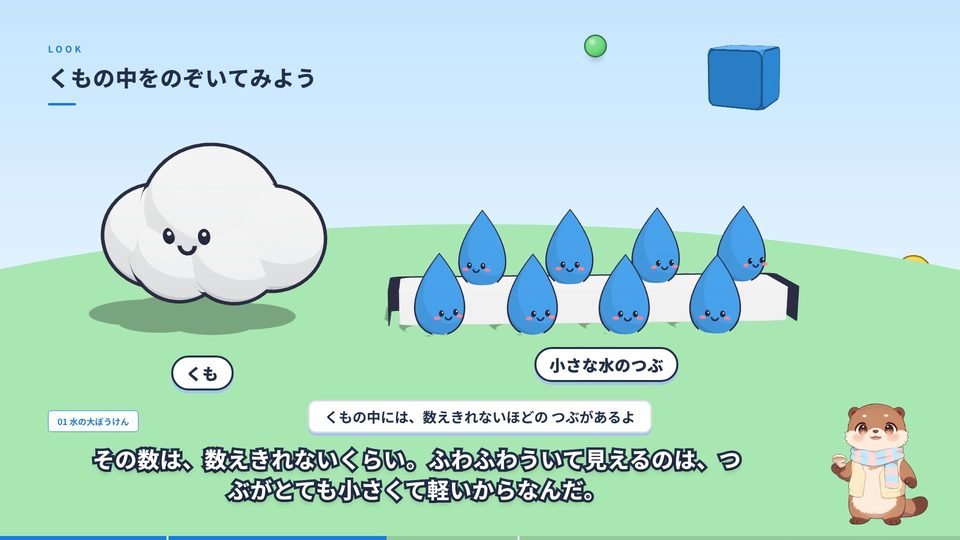
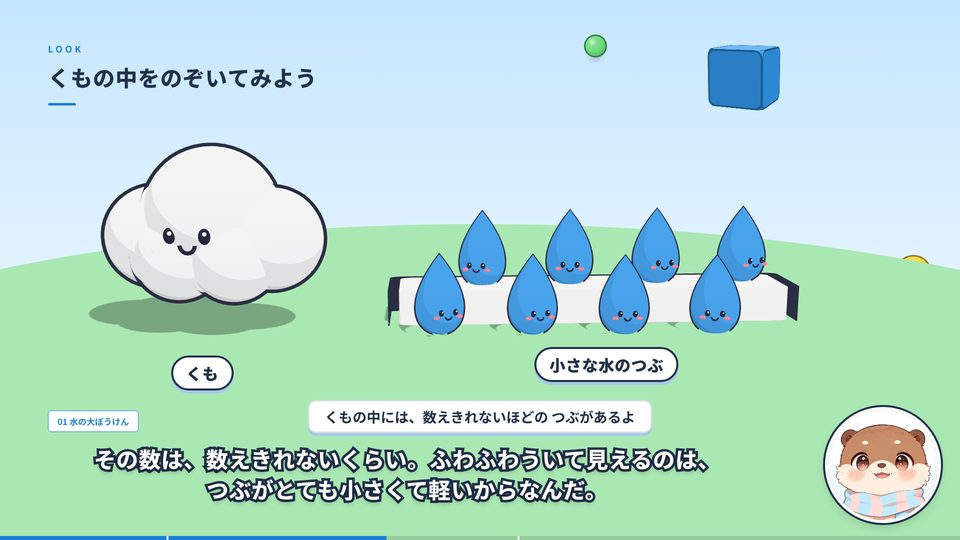
キャラクターを顔だけの丸い枠にし、動くのは口だけにする
- 話すたびに上下に揺れていた動き (音量に合わせた上下動・ゆらぎ・登場時の跳ね上がり) をなくし、
  口の画像の切り替えだけで喋るようにした (冒頭のフェードインのみ)
- 同梱のカワウソは顔だけを丸い枠 (ワイプ) で表示。meta.avatar.framing: "full" で従来の全身、
  face で切り出す位置を調整できる。builtin キャラクターの傾き・まばたきもなくした
- 字幕をよける幅を枠の大きさから計算し、README・手順書と画面例を更新

Claude-Session: https://claude.ai/code/session_018uyttXZdRnE53yjFnEWyZZ

Changed region(s): [[0.0938, 0.8296, 0.7812, 0.9481], [0.8438, 0.7407, 1.0, 0.9778]]

diff --git a/src/components/Avatar.tsx b/src/components/Avatar.tsx
@@ -1,8 +1,7 @@
 import React from 'react';
-import { Img, staticFile, useCurrentFrame, useVideoConfig } from 'remotion';
+import { Img, interpolate, staticFile, useCurrentFrame } from 'remotion';
 import { script, timeline } from '../data';
 import { useTheme } from '../themes';
-import { SPRINGS, springFrom } from '../animation/presets';
 
 /**
  * frame 時点の口の開き具合 (0〜1)。
@@ -30,66 +29,133 @@ export const mouthOpenAt = (frame: number): number => {
   return 0;
 };
 
-/** 右下で喋るキャラクター。meta.avatar が false のときは表示しない */
+type AvatarConfig = Exclude<typeof script.meta.avatar, false>;
+
+/** 顔だけを丸い枠で見せるか (画像のキャラクターで framing: face のとき) */
+const isFaceFrame = (avatar: AvatarConfig): boolean => avatar.type === 'image' && avatar.framing === 'face';
+
+/** 表示する大きさ [px]。顔の丸い枠は直径 220、全身・builtin は高さ 250 が既定 */
+const avatarSize = (avatar: AvatarConfig): number => avatar.size ?? (isFaceFrame(avatar) ? 220 : 250);
+
+/** 顔の丸い枠の、画面の右端・下端からの位置 [px] */
+const FACE_MARGIN = { right: 44, bottom: 40 };
+
+/** 字幕がキャラクターに重ならないよう、画面の右端からあける幅 [px] */
+export const avatarRightInset = (avatar: AvatarConfig | false): number => {
+  if (!avatar) {
+    return 0;
+  }
+  const size = avatarSize(avatar);
+  return isFaceFrame(avatar) ? FACE_MARGIN.right + size + 28 : size * 0.85 + 40;
+};
+
+/**
+ * 右下で喋るキャラクター。meta.avatar が false のときは表示しない。
+ * 体や顔は動かさず、口の形 (画像の切り替え) だけが音声に合わせて変わる。
+ */
 export const Avatar: React.FC = () => {
   const frame = useCurrentFrame();
-  const { fps } = useVideoConfig();
-  const theme = useTheme();
   const avatar = script.meta.avatar;
   if (!avatar) {
     return null;
   }
 
   const open = mouthOpenAt(frame);
-  const enter = springFrom(frame, 4, fps, SPRINGS.bouncy);
-  const bob = Math.sin(frame / 18) * 3 - open * 6;
-  const size = avatar.size;
+  const size = avatarSize(avatar);
+  // 動画の冒頭だけ、その場でふわっと現れる (位置は動かさない)
+  const opacity = interpolate(frame, [0, 8], [0, 1], { extrapolateLeft: 'clamp', extrapolateRight: 'clamp' });
+  const face = isFaceFrame(avatar);
 
   return (
     <div
       style={{
         position: 'absolute',
-        right: 36,
-        bottom: 22,
+        right: face ? FACE_MARGIN.right : 36,
+        bottom: face ? FACE_MARGIN.bottom : 22,
         width: size,
         display: 'flex',
         flexDirection: 'column',
         alignItems: 'center',
-        transform: `translateY(${(1 - enter) * 260 + bob}px)`,
+        opacity,
       }}
     >
-      {avatar.type === 'image' ? (
-        <MouthImages avatar={avatar} open={open} size={size} />
+      {avatar.type === 'builtin' ? (
+        <BuiltinCharacter size={size} open={open} />
+      ) : face ? (
+        <FaceWindow avatar={avatar} open={open} size={size} />
       ) : (
-        <BuiltinCharacter size={size} open={open} frame={frame} />
+        <MouthImages avatar={avatar} open={open} style={{ width: size, height: size, objectFit: 'contain' }} />
       )}
-      {avatar.name ? (
-        <div
-          style={{
-            marginTop: -10,
-            padding: '4px 16px',
-            borderRadius: 999,
-            backgroundColor: theme.colors.ink,
-            color: theme.colors.bg,
-            fontSize: 17,
-            fontWeight: 800,
-            whiteSpace: 'nowrap',
-          }}
-        >
-          {avatar.name}
-        </div>
-      ) : null}
+      {avatar.name ? <NameTag name={avatar.name} /> : null}
     </div>
   );
 };
 
-type ImageAvatar = Exclude<typeof script.meta.avatar, false>;
+const NameTag: React.FC<{ name: string }> = ({ name }) => {
+  const theme = useTheme();
+  return (
+    <div
+      style={{
+        marginTop: -10,
+        padding: '4px 16px',
+        borderRadius: 999,
+        backgroundColor: theme.colors.ink,
+        color: theme.colors.bg,
+        fontSize: 17,
+        fontWeight: 800,
+        whiteSpace: 'nowrap',
+        position: 'relative',
+      }}
+    >
+      {name}
+    </div>
+  );
+};
+
+/**
+ * 顔だけを丸い枠 (ワイプ) で見せる。画像を拡大して face の位置を枠の中心に合わせる。
+ * 画像は口以外が同じなので、切り替えても動くのは口だけ。
+ */
+const FaceWindow: React.FC<{ avatar: AvatarConfig; open: number; size: number }> = ({ avatar, open, size }) => {
+  const theme = useTheme();
+  const imgWidth = size / avatar.face.size;
+  return (
+    <div
+      style={{
+        position: 'relative',
+        width: size,
+        height: size,
+        borderRadius: '50%',
+        overflow: 'hidden',
+        background: `radial-gradient(circle at 50% 40%, ${theme.colors.surface} 55%, ${theme.colors.sky} 100%)`,
+        boxShadow: `0 0 0 6px ${theme.colors.surface}, 0 0 0 10px ${theme.colors.ink}, 0 10px 24px rgba(0, 0, 0, 0.22)`,
+      }}
+    >
+      <MouthImages
+        avatar={avatar}
+        open={open}
+        style={{
+          position: 'absolute',
+          width: imgWidth,
+          height: 'auto',
+          maxWidth: 'none',
+          left: size / 2 - avatar.face.x * imgWidth,
+          top: size / 2 - avatar.face.y * imgWidth,
+        }}
+      />
+    </div>
+  );
+};
 
 /**
  * 画像2〜3枚の口パク。全部読み込んでおき、表示だけ切り替える (切り替え時のちらつき防止)。
  * half (半開き) があれば 3段階、なければ開く/閉じるの 2段階。
  */
-const MouthImages: React.FC<{ avatar: ImageAvatar; open: number; size: number }> = ({ avatar, open, size }) => {
+const MouthImages: React.FC<{ avatar: AvatarConfig; open: number; style: React.CSSProperties }> = ({
+  avatar,
+  open,
+  style,
+}) => {
   const frames = avatar.half
     ? [
         { src: avatar.closed, show: open < 0.22 },
@@ -103,30 +169,22 @@ const MouthImages: React.FC<{ avatar: ImageAvatar; open: number; size: number }>
   return (
     <>
       {frames.map((f) => (
-        <Img
-          key={f.src}
-          src={staticFile(f.src)}
-          style={{ width: size, height: size, objectFit: 'contain', display: f.show ? 'block' : 'none' }}
-        />
+        <Img key={f.src} src={staticFile(f.src)} style={{ ...style, display: f.show ? 'block' : 'none' }} />
       ))}
     </>
   );
 };
 
-/** 画像なしで使える組み込みキャラクター (まばたき + 口パク) */
-const BuiltinCharacter: React.FC<{ size: number; open: number; frame: number }> = ({ size, open, frame }) => {
+/** 画像なしで使える組み込みキャラクター (動くのは口だけ) */
+const BuiltinCharacter: React.FC<{ size: number; open: number }> = ({ size, open }) => {
   const theme = useTheme();
   // 顔のパーツはテーマに関係なく濃い色で描く (dark テーマでも目と口が見えるように)
   const face = '#1B1B1F';
-  // 約3.5秒ごとに 4フレームのまばたき
-  const blinkPhase = frame % 104;
-  const eyeScale = blinkPhase < 4 ? 0.12 : 1;
-  const tilt = Math.sin(frame / 45) * 3;
 
   return (
     <svg width={size} height={size} viewBox="0 0 200 200" style={{ overflow: 'visible' }}>
       <ellipse cx={100} cy={188} rx={56} ry={8} fill="rgba(0,0,0,0.18)" />
-      <g transform={`rotate(${tilt} 100 110)`}>
+      <g>
         {/* アンテナ */}
         <line x1={100} y1={30} x2={100} y2={8} stroke={face} strokeWidth={5} strokeLinecap="round" />
         <circle cx={100} cy={8} r={9} fill={theme.colors.warning} />
@@ -135,7 +193,7 @@ const BuiltinCharacter: React.FC<{ size: number; open: number; frame: number }> 
         <ellipse cx={100} cy={116} rx={56} ry={48} fill="#FFFFFF" opacity={0.92} />
         {/* 目 */}
         {[72, 128].map((x) => (
-          <g key={x} transform={`translate(${x} 100) scale(1 ${eyeScale})`}>
+          <g key={x} transform={`translate(${x} 100)`}>
             <ellipse cx={0} cy={0} rx={10} ry={13} fill={face} />
             <circle cx={3} cy={-5} r={3.5} fill="#FFFFFF" />
           </g>

diff --git a/docs/manual.html b/docs/manual.html
@@ -224,7 +224,7 @@ footer { max-width: 960px; margin: 0 auto; padding: var(--sp-3) var(--sp-2); col
   <div><b>強調</b><p>セリフに <code>focus</code> を書くと説明中の要素が拡大され、他は薄くなります。<code>**語句**</code> で字幕の色が変わります。</p></div>
   <div><b>字幕</b><p>YouTube でおなじみの縁取り文字、または帯付きの字幕。テーマに合わせて自動で選ばれます。</p></div>
   <div><b>効果音とBGM</b><p>出現の「ポン」、切り替えの「シュッ」、強調の「チーン」を自動で配置。BGM はナレーション中だけ音量が下がります。</p></div>
-  <div><b>喋るキャラクター</b><p>右下にカワウソのキャラクターが出ます。口の動きは音声の大きさから自動で作られ、サムネイルにも登場します。自前の画像にも差し替えられます。</p></div>
+  <div><b>喋るキャラクター</b><p>右下の丸い枠に、カワウソの顔だけが出ます。体や顔は動かず、動くのは口だけで、口の形は音声の大きさから自動で作られます。サムネイルには全身で登場します。自前の画像にも差し替えられます。</p></div>
   <div><b>登録の導線</b><p>動画の途中に「チャンネル登録」のポップアップ（カーソルがクリックする演出）。最後は終了画面の枠付きエンディング。</p></div>
 </div>
 
@@ -442,7 +442,7 @@ npm run youtube     # → out/youtube/description.txt, captions.srt, metadata.js
     <tr><td><code>subtitle</code></td><td><code>{ "enabled": true, "style": "auto" }</code></td><td><code>style</code> は <code>box</code>（帯）/ <code>outline</code>（縁取り）/ <code>auto</code>（テーマ既定）。YouTube の字幕機能だけ使うなら <code>enabled: false</code></td></tr>
     <tr><td><code>sfx</code></td><td><code>{ "enabled": true, "volume": 0.5 }</code></td><td>効果音。<code>reveal</code>（出現時の pop）と <code>transition</code>（切り替えの whoosh）を個別に <code>false</code> にもできる</td></tr>
     <tr><td><code>bgm</code></td><td>なし</td><td><code>{ "src": "bgm/track.mp3", "volume": 0.18, "duckVolume": 0.07 }</code>。<code>public/</code> に置いた音源をループし、ナレーション中は <code>duckVolume</code> まで下げる</td></tr>
-    <tr><td><code>avatar</code></td><td>カワウソ（同梱）</td><td>右下で喋るキャラクター。<strong>省略時は同梱のカワウソが出る</strong>。<code>false</code> で非表示。自前の画像なら <code>{ "type": "image", "open": "avatar/open.png", "half": "avatar/half.png", "closed": "avatar/closed.png" }</code>（<code>half</code> は省略可）。<code>{ "type": "builtin" }</code> で画像なしの丸顔キャラ。<code>name</code> で名札、<code>size</code> で大きさ</td></tr>
+    <tr><td><code>avatar</code></td><td>カワウソ（同梱）</td><td>右下で喋るキャラクター。<strong>省略時は同梱のカワウソの顔が丸い枠で出る</strong>（動くのは口だけ）。<code>false</code> で非表示。自前の画像なら <code>{ "type": "image", "open": "avatar/open.png", "half": "avatar/half.png", "closed": "avatar/closed.png" }</code>（<code>half</code> は省略可）。<code>framing</code> は <code>face</code>（既定。顔だけ）/ <code>full</code>（全身）。<code>face</code> は丸く切り出す位置 <code>{ "x": 0.47, "y": 0.29, "size": 0.74 }</code>（画像の幅を 1 とした割合）。<code>{ "type": "builtin" }</code> で画像なしの丸顔キャラ。<code>name</code> で名札、<code>size</code> で大きさ（丸い枠の直径は既定 220）</td></tr>
     <tr><td><code>subscribePopup</code></td><td>なし</td><td><code>{ "sceneId": "sec2" }</code>。そのシーンの冒頭に約4秒、登録ボタンの演出を右上に出す</td></tr>
     <tr><td><code>thumbnail</code></td><td>なし</td><td><code>{ "text": "大きな文字\n**強調**", "sub": "…", "badge": "…", "image": "…" }</code>。省略時は title シーンから作る</td></tr>
   </tbody>
@@ -598,7 +598,7 @@ npm run audio &amp;&amp; npm run build:youtube</code></pre>
     <tr><td><code>docker: invalid IP address</code></td><td><code>-p</code> の値を引用符で囲んでいます。引用符なしで実行してください。</td></tr>
     <tr><td>「timeline.json に … 対応するエントリがありません」</td><td>台本を直した後に <code>npm run audio</code> を実行していません。再実行します。</td></tr>
     <tr><td>「要素ID "…" はシーン "…" にありません」</td><td><code>reveal</code> / <code>focus</code> の綴りの間違いです。メッセージに使えるIDの一覧が出ます。</td></tr>
-    <tr><td>キャラクターを別の画像にしたい</td><td>背景が透明な PNG を <code>public/avatar/</code> に置き、<code>meta.avatar</code> でファイル名を指定します。口を開けた画像と閉じた画像の2枚（＋任意で半開き）が必要です。</td></tr>
+    <tr><td>キャラクターを別の画像にしたい</td><td>背景が透明な PNG を <code>public/avatar/</code> に置き、<code>meta.avatar</code> でファイル名を指定します。口を開けた画像と閉じた画像の2枚（＋任意で半開き）が必要で、口以外は同じ絵にします。顔の位置は <code>face</code> で合わせ、全身を見せるなら <code>"framing": "full"</code> にします。</td></tr>
     <tr><td>キャラクターの口が動かない・一定のリズムで動く</td><td>古い <code>timeline.json</code> か、<code>audio:mock</code> で作ったタイムラインです。<code>npm run audio</code> を実行すると音声に合わせて動きます。</td></tr>
     <tr><td>音声と表示がずれる</td><td><code>npm run audio</code> をやり直します。タイムラインは音声の実寸から再計算されます。</td></tr>
     <tr><td>動きが多すぎる・目が疲れる</td><td><a href="#meta">meta</a> で <code>animation</code>・<code>transition</code>・<code>camera</code>・<code>animatedBackground</code> を控えめにします。立体の演出をやめるなら <code>"style": "flat"</code>。</td></tr>

diff --git a/src/schemas.ts b/src/schemas.ts
@@ -338,6 +338,9 @@ const sceneSchema = z.discriminatedUnion('layout', [
 
 export const themeNameSchema = z.enum(['kids', 'clean', 'pop', 'dark']);
 
+/** 同梱のカワウソ画像 (578×720) で、顔を丸く切り出す位置 (画像の幅を 1 とした割合) */
+const OTTER_FACE = { x: 0.47, y: 0.29, size: 0.74 };
+
 export const metaSchema = z.object({
   /** 動画タイトル (サムネイル・概要欄の既定値に使う) */
   title: z.string().optional(),
@@ -384,8 +387,8 @@ export const metaSchema = z.object({
     })
     .optional(),
   /**
-   * 右下で喋るキャラクター。口の動きは音声の音量から自動生成。
-   * 省略時は同梱のカワウソ (public/avatar/) を表示する。false で非表示
+   * 右下で喋るキャラクター。動くのは口だけで、口の形は音声の音量から自動生成。
+   * 省略時は同梱のカワウソ (public/avatar/) の顔を丸い枠で表示する。false で非表示
    */
   avatar: z
     .union([
@@ -397,7 +400,21 @@ export const metaSchema = z.object({
         half: z.string().optional(),
         closed: z.string().default('avatar/closed.png'),
         name: z.string().optional(),
-        size: z.number().default(250),
+        /** 大きさ [px]。顔の丸い枠では直径 (既定 220)、全身・builtin では高さ (既定 250) */
+        size: z.number().optional(),
+        /** face: 顔だけを丸い枠で見せる / full: 画像の全体 (全身) を見せる */
+        framing: z.enum(['face', 'full']).default('face'),
+        /**
+         * framing: face のときに切り出す顔の位置。画像の幅を 1 とした割合で、丸の中心 (x, y) と直径 (size)。
+         * 既定は同梱のカワウソの顔。自前の画像では顔の位置に合わせて指定する
+         */
+        face: z
+          .object({
+            x: z.number(),
+            y: z.number(),
+            size: z.number().positive(),
+          })
+          .default(OTTER_FACE),
       }),
     ])
     .default({
@@ -405,7 +422,8 @@ export const metaSchema = z.object({
       open: 'avatar/open.png',
       half: 'avatar/half.png',
       closed: 'avatar/closed.png',
-      size: 250,
+      framing: 'face',
+      face: OTTER_FACE,
     }),
   /** チャンネル登録を促すポップアップを出すシーンID (シーン開始時に約4秒表示) */
   subscribePopup: z

diff --git a/src/Slideshow.tsx b/src/Slideshow.tsx
@@ -12,7 +12,7 @@ import { SceneBackground } from './components/SceneBackground';
 import { Camera } from './components/Camera';
 import { SubtitleLayer } from './components/SubtitleLayer';
 import { AudioLayer } from './components/AudioLayer';
-import { Avatar } from './components/Avatar';
+import { Avatar, avatarRightInset } from './components/Avatar';
 import { ProgressBar } from './components/ProgressBar';
 import { SubscribePopup } from './components/SubscribePopup';
 import { FloatingToys } from './components/FloatingToys';
@@ -113,7 +113,7 @@ export const Slideshow: React.FC = () => {
         <SubscribePopup />
         <Avatar />
         {/* 字幕はシーンのトランジションとは独立したレイヤー */}
-        <SubtitleLayer rightInset={avatar ? avatar.size * 0.85 + 40 : 0} />
+        <SubtitleLayer rightInset={avatarRightInset(avatar)} />
         <ProgressBar />
       </AbsoluteFill>
     </ThemeContext.Provider>
